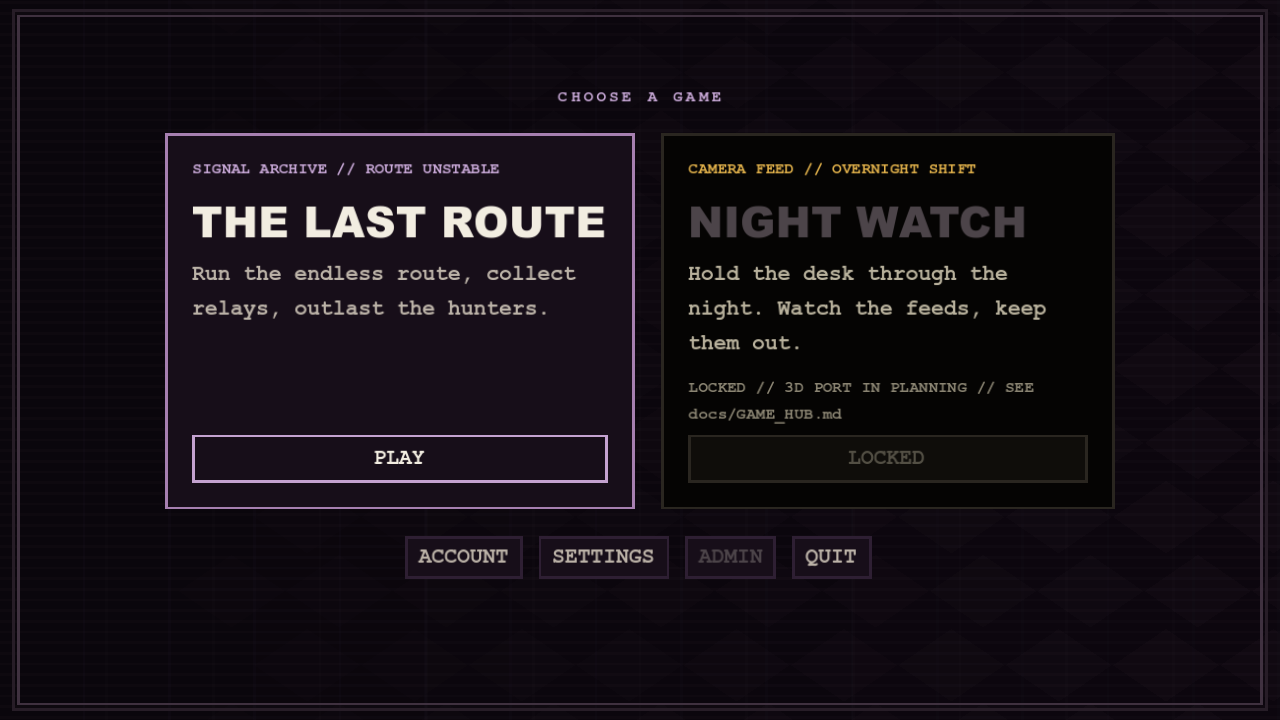
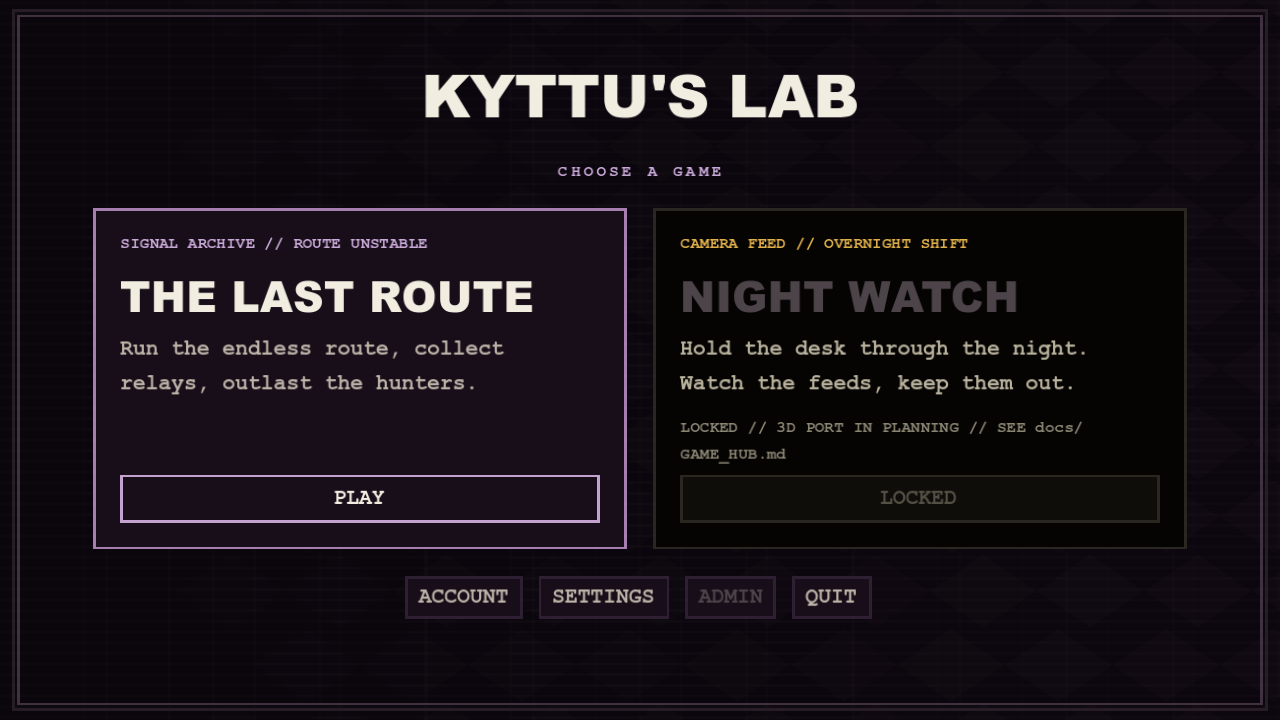
Rename the app to Kyttu's Lab (The Last Route stays the game inside): display name, hub header, boot/update titles, export artifact names, Windows product strings, docs; user data folder pinned via custom_user_dir_name; app_name validator

diff --git a/docs/DISTRIBUTION.md b/docs/DISTRIBUTION.md
@@ -17,3 +17,15 @@ Co-op and the PUBLIC route need only the Node service (no Godot server export). 
 
 ## Downloads page
 Players get builds from the downloads page on kyttuslab.org, which is **deployed**: <https://kyttuslab.org/home/downloads/> (also `/downloads/`). It is part of the website repo (`LastRoute`). Its manifest is empty until the first release is published with `scripts/publish-downloads.mjs` in that repo; it then lists the exported ZIPs per platform with checksums. Exported archives go to the site through that script, never into this repo.
+
+## App name (Kyttu's Lab)
+
+The application is "Kyttu's Lab" (`application/config/name`, window title, export `application/name`, Windows product and
+file description, Android package name); "The Last Route" is the game inside it. Export artifacts are `KyttusLab-<platform>-...`
+(test, beta and debug zips; `scripts/generate_update_manifest.mjs` and `backend/updates.example.json` use the same names).
+Kept on purpose: the bundle identifier `org.kyttuslab.lastroute`, all version fields, the backend/service/instance names and repo
+names, save formats, and the user data folder: `project.godot` pins it with `config/custom_user_dir_name`
+(`Godot/app_userdata/KYTTU- The Last Route`, `godot/...` on Linux), because renaming `config/name` alone would silently move
+`user://` and orphan accounts, settings, run saves, per-server sessions and update staging. The `app_name` validator checks it.
+A macOS bundle is now `Kyttu's Lab.app`: the in-game updater installs whatever `.app` is in the staged zip, so an old
+`KYTTU- The Last Route.app` stays beside it until deleted. The site's project title ("The Last Route (Godot)") is separate.

diff --git a/docs/TEST_MULTIPLAYER.md b/docs/TEST_MULTIPLAYER.md
@@ -19,7 +19,7 @@ scripts/run_multi.sh 2 --local    # 2 windows against a throwaway local backend 
 1. Install the TEST instance once (see "VPS commands" below) and open **TCP 8205** and **UDP 1205** in the provider firewall.
 2. On the Mac: `scripts/export_test_multiplayer.sh` (needs the Godot **4.7.2 export templates**: Godot > Editor > Manage Export
    Templates > Download and Install; this machine does not have them yet). It writes
-   `build/test/LastRoute-TEST-<date>-<revision>-{macOS,Windows,Linux}.zip` (never committed). The builds point at the TEST
+   `build/test/KyttusLab-TEST-<date>-<revision>-{macOS,Windows,Linux}.zip` (never committed). The builds point at the TEST
    instance by default (custom feature `test_server`), show the TEST SERVER badge, and carry the git revision.
 3. Copy the zip to the other computer, unzip, run. macOS: right-click > Open the first time. Windows: SmartScreen > More info > Run.
 4. On both computers: one creates a room, the other joins with the code (or both press PUBLIC ROUTE).

diff --git a/XR.md b/XR.md
@@ -26,7 +26,7 @@ Last Route-specific map.
 
 The `Windows SteamVR Debug` export has the `xr` feature, so it attempts OpenXR
 automatically. Set SteamVR as the active OpenXR runtime, connect the headset,
-then launch `builds/LastRoute-Windows-SteamVR-Debug.exe` with its matching
+then launch `builds/KyttusLab-Windows-SteamVR-Debug.exe` with its matching
 `.pck` beside it. The ordinary Windows build does not start XR. From an editor
 or ordinary debug executable, the equivalent opt-in is a user argument after
 Godot's separator: `-- --xr`.
@@ -51,7 +51,7 @@ This workspace does not currently have Java, the Android SDK, `adb`, a Quest,
 or a signing identity, so the preset is prepared but its APK cannot yet be
 exported or device-verified here. Once configured,
 `./scripts/export_test_builds.sh --quest` writes
-`builds/LastRoute-Quest-Debug.apk`.
+`builds/KyttusLab-Quest-Debug.apk`.
 
 ## Hardware-test work still required
 

diff --git a/README.md b/README.md
@@ -1,4 +1,4 @@
-# KYTTU: The Last Route — Godot 4
+# Kyttu's Lab — Godot 4 (home of KYTTU: The Last Route)
 
 Godot 4 migration workspace for [KYTTU: The Last Route](https://github.com/KyttuXD/LastRoute).
 
@@ -236,7 +236,7 @@ and later. This includes Monterey and every newer macOS release. The project
 uses Godot's Compatibility renderer so the Intel minimum is not silently raised
 to the newer Metal-renderer requirement.
 
-`LastRoute-Windows-Legacy-Debug.exe` is the 32-bit SSE2 compatibility build for
+`KyttusLab-Windows-Legacy-Debug.exe` is the 32-bit SSE2 compatibility build for
 older Windows computers whose CPUs cannot start Godot's standard 64-bit SSE4.2
 template. It uses the Compatibility renderer and has a smaller address space,
 so the normal 64-bit Windows build remains preferred whenever it can run. The

diff --git a/IOS.md b/IOS.md
@@ -24,7 +24,7 @@ On the Mac:
 3. Select the appropriate development provisioning profile if Xcode cannot
    manage signing automatically.
 4. Run `./scripts/export_ios_xcode.sh`.
-5. Unzip `builds/LastRoute-iOS-Debug.zip`, open the generated `.xcodeproj`,
+5. Unzip `builds/KyttusLab-iOS-Debug.zip`, open the generated `.xcodeproj`,
    select a signing team and device, then build from Xcode.
 
 The current gameplay UI assumes a physical controller on touch-only iPhones and

diff --git a/backend/README.md b/backend/README.md
@@ -281,7 +281,7 @@ the generated manifest and archives:
 ```sh
 gh release create debug --prerelease \
   --title "Last Route debug 0.0.1.0" \
-  builds/LastRoute-*-Debug.zip builds/updates.debug.json
+  builds/KyttusLab-*-Debug.zip builds/updates.debug.json
 ```
 
 Keep the GitHub tags channel-based: use `debug` for debug uploads and
